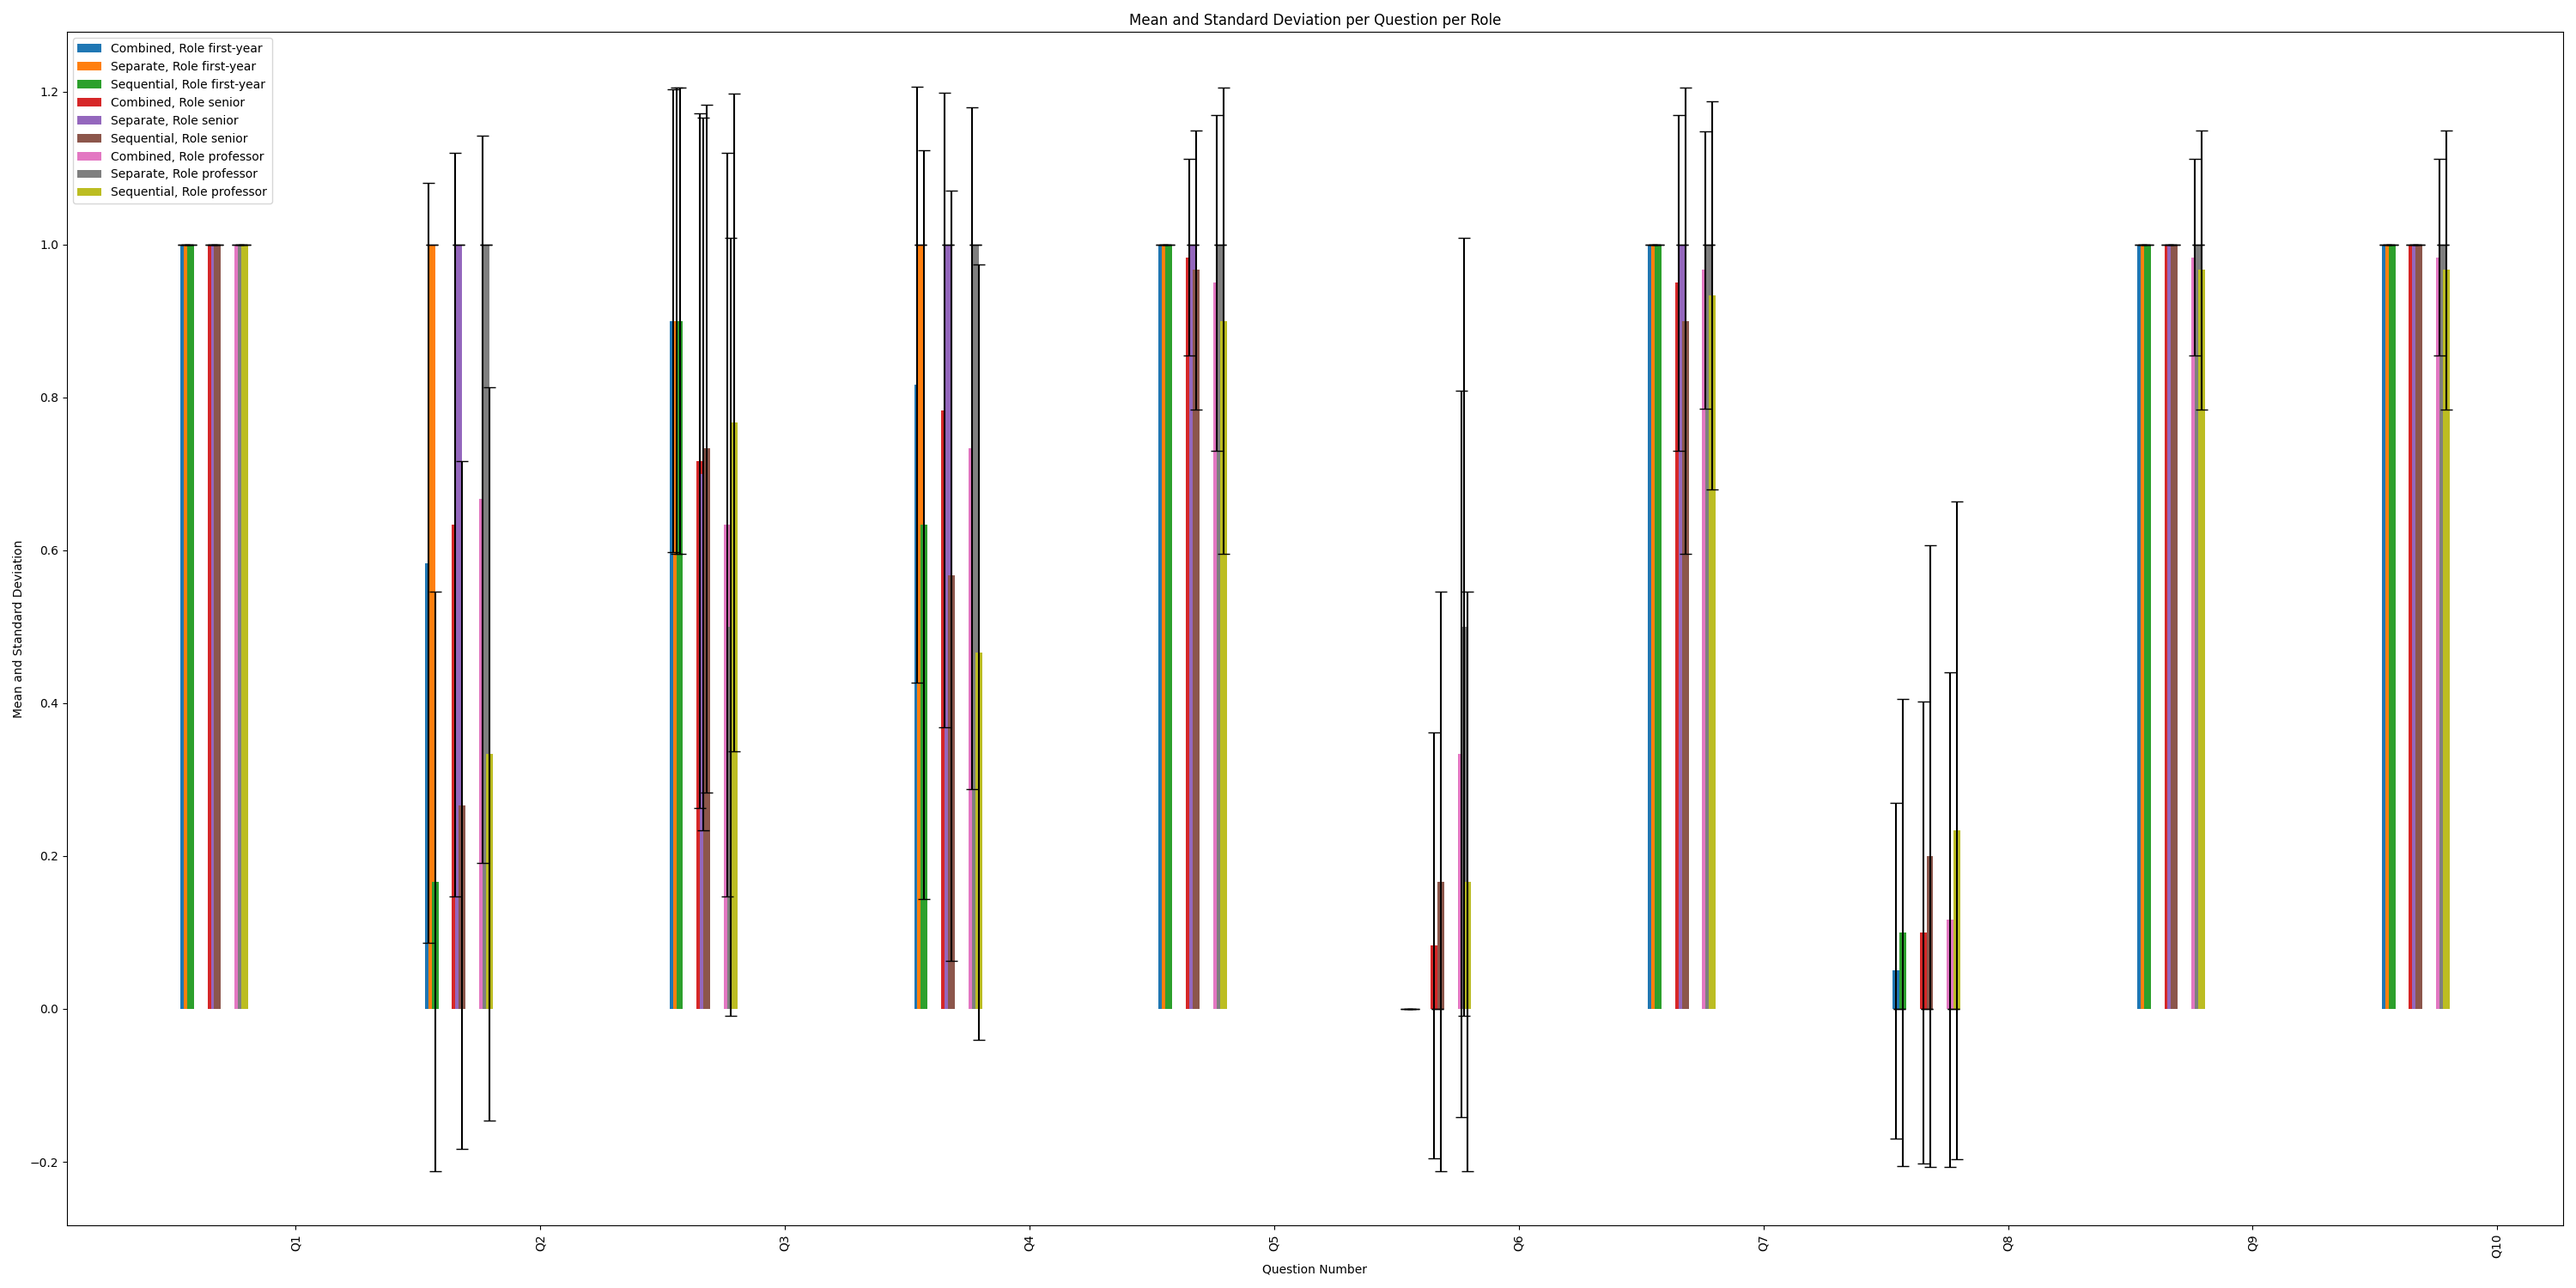
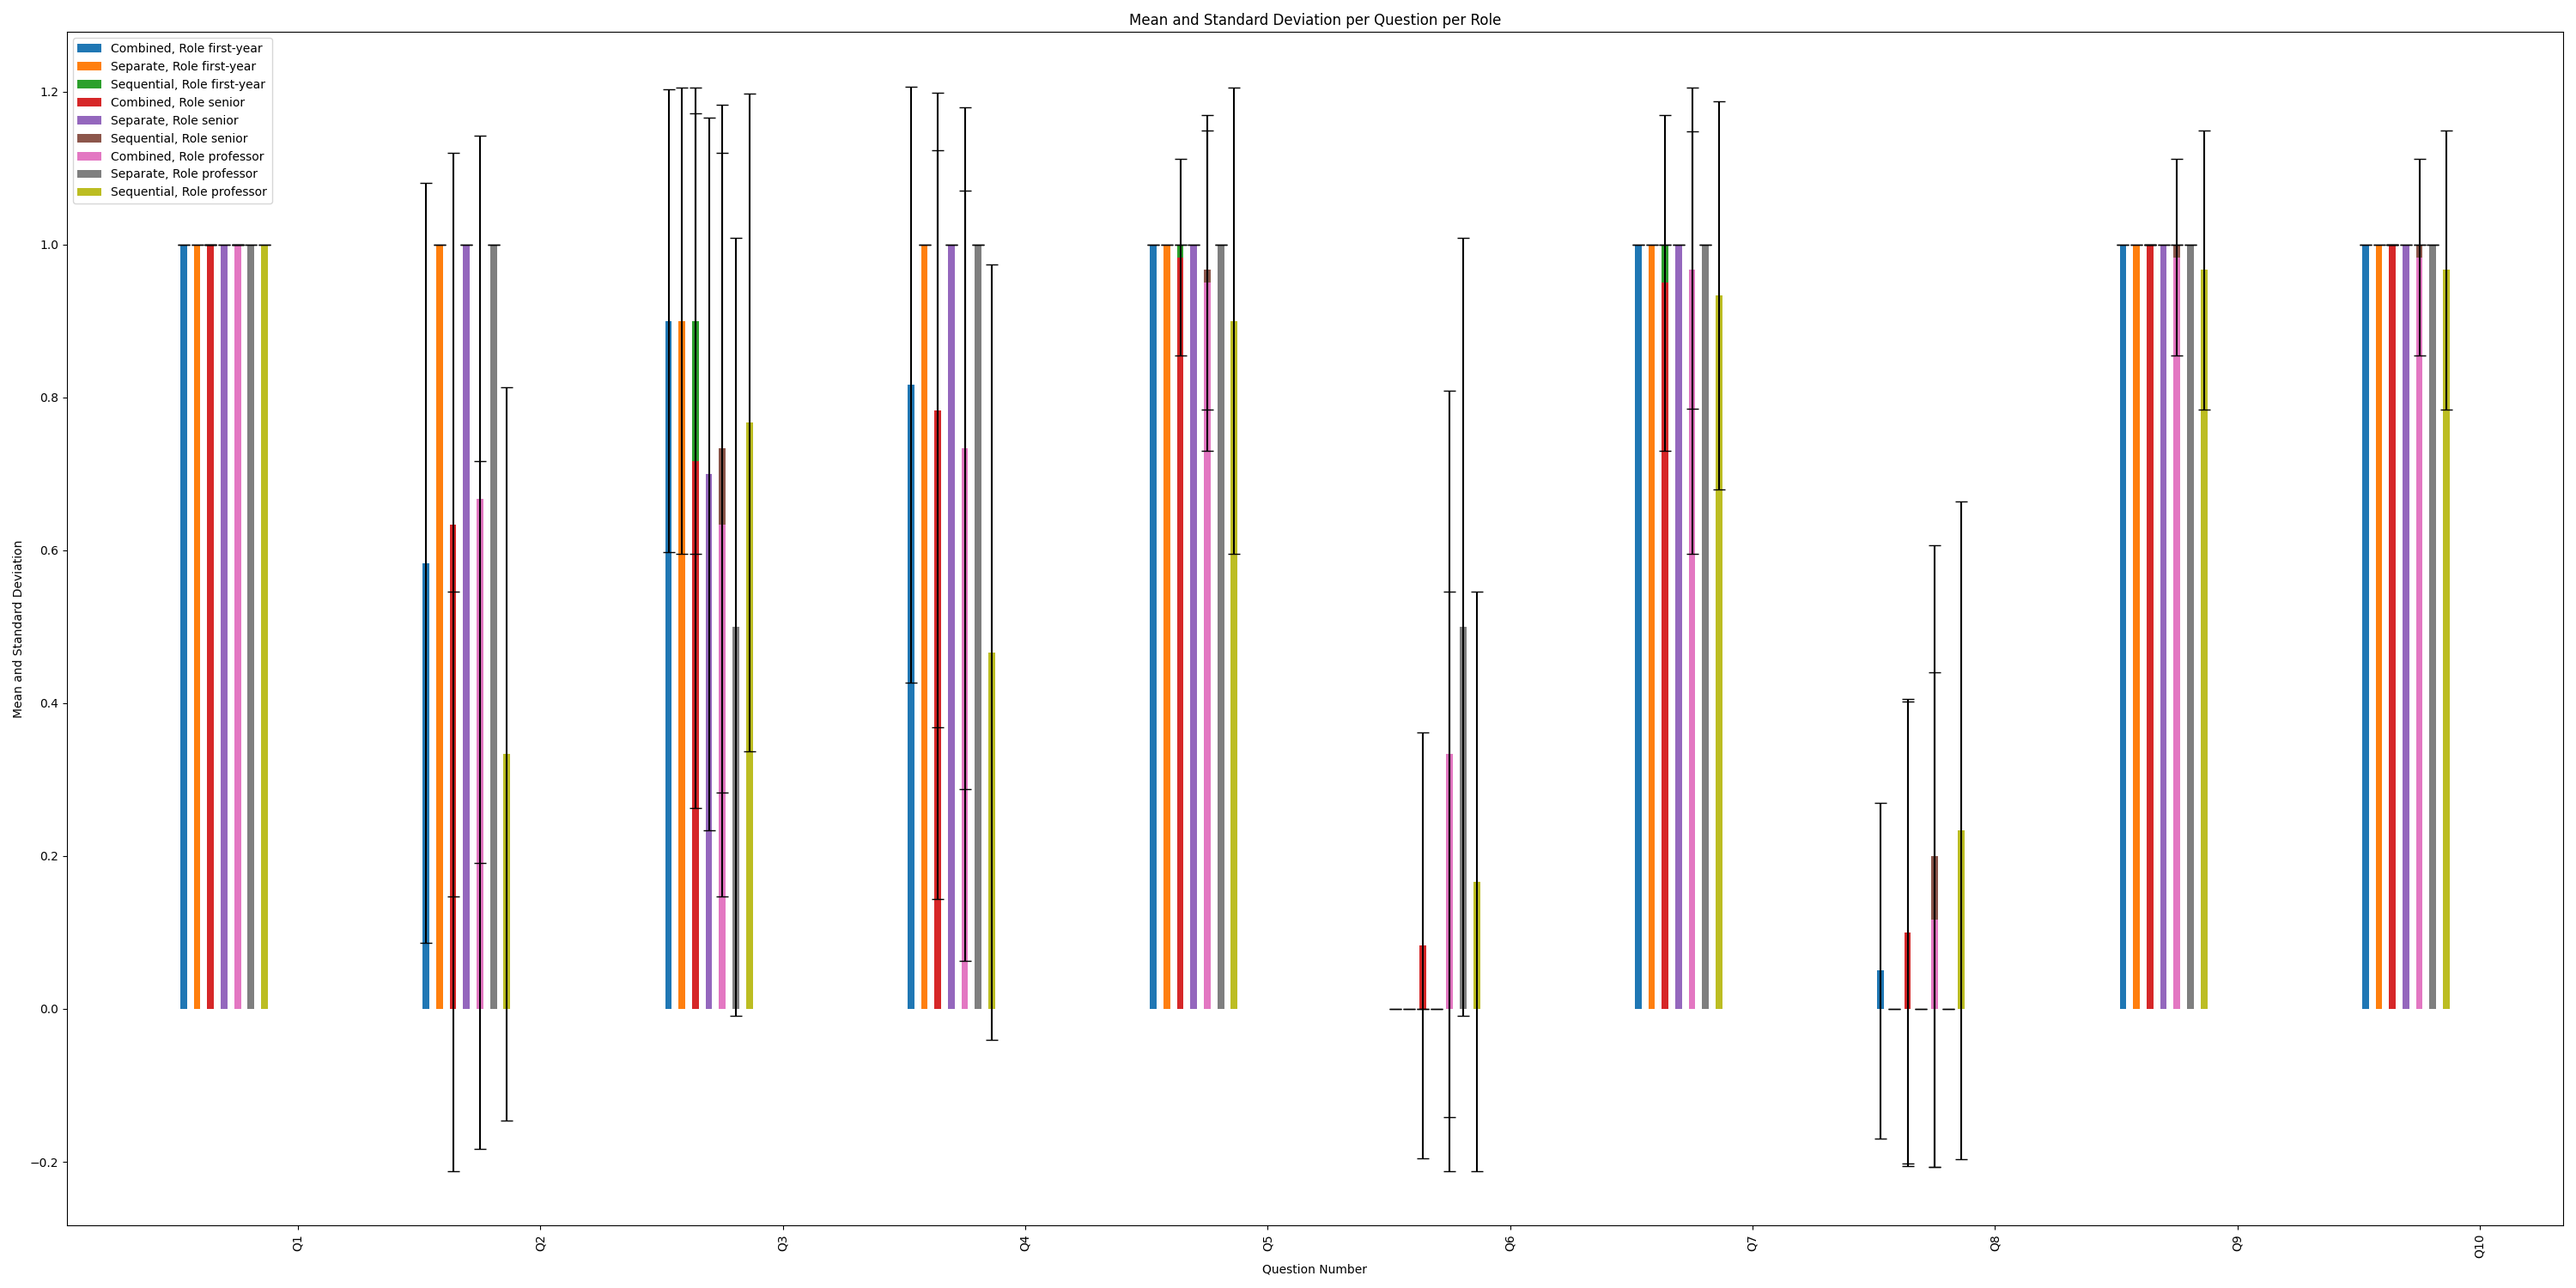
Revamped some plot code

diff --git a/plottables.py b/plottables.py
@@ -104,9 +104,9 @@ def plot_mean_and_std_dev_per_question_per_group(df_combined, df_separate, df_se
 	fig, ax = plt.subplots(figsize=(30, 15))
 
 	for i in range(num_groups):
-		ax.bar(x[i::num_groups * 3] - width/2, combined_means[i], width, label=f'Combined, {group_name} {group_entries[i]}', yerr=combined_stds[i], capsize=5)
-		ax.bar(x[i::num_groups * 3], separate_means[i], width, label=f'Separate, {group_name} {group_entries[i]}', yerr=separate_stds[i], capsize=5)
-		ax.bar(x[i::num_groups * 3] + width/2, sequential_means[i], width, label=f'Sequential, {group_name} {group_entries[i]}', yerr=sequential_stds[i], capsize=5)
+		ax.bar(x[i::num_groups * 3] - width, combined_means[i], width, label=f'Combined, {group_name} {group_entries[i]}', yerr=combined_stds[i], capsize=5)
+		ax.bar(x[i::num_groups * 3] + width, separate_means[i], width, label=f'Separate, {group_name} {group_entries[i]}', yerr=separate_stds[i], capsize=5)
+		ax.bar(x[i::num_groups * 3] + 3*width, sequential_means[i], width, label=f'Sequential, {group_name} {group_entries[i]}', yerr=sequential_stds[i], capsize=5)
 
 	ax.set_xlabel('Question Number')
 	ax.set_ylabel('Mean and Standard Deviation')
